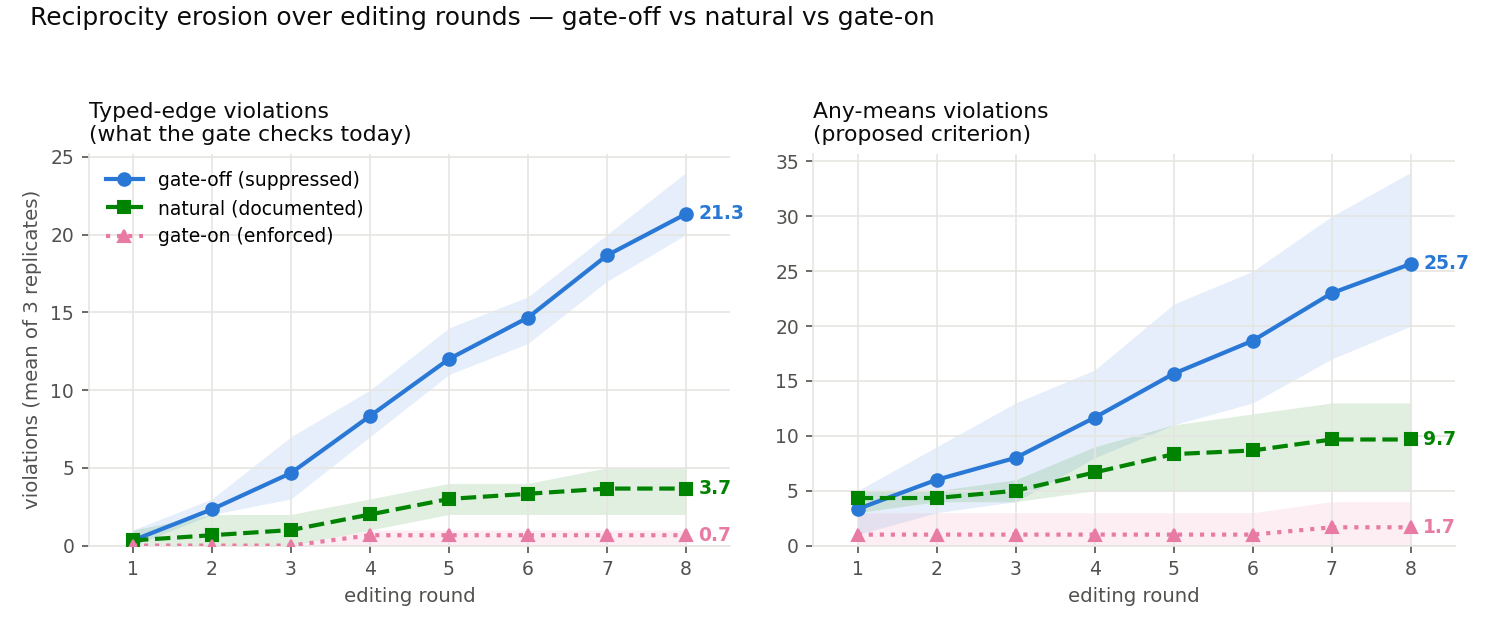
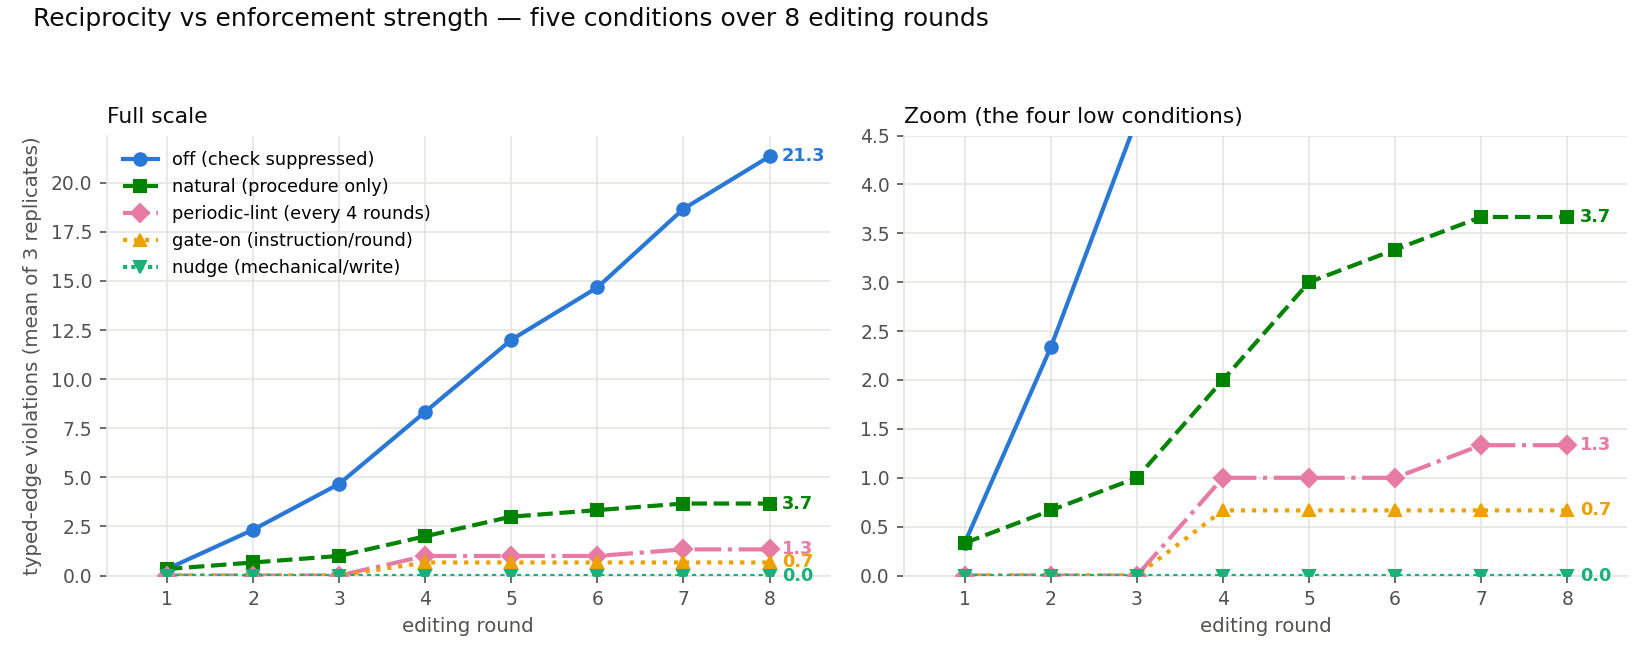
reciprocity-erosion: add periodic-lint (D) and per-write nudge (E) conditions
Two new batteries extend the erosion study to five conditions spanning
enforcement strength: off(21.3) > natural(3.7) > periodic-lint(1.3) >
gate-on(0.7) > nudge(0.0), typed-edge violations at round 8.

- D (periodic-lint): natural editing + a mechanical wiki-reciprocity.py sweep
  after rounds 4 and 8. Produces a bounded sawtooth (reset at each sweep) — the
  measured behavior of the shipped /wiki-lint wiring (PR #84).
- E (nudge): the checker runs on each round's own writes before commit — a
  faithful PostToolUse-hook proxy. Held at 0.0, matching/beating the instruction
  gate; behavioral evidence a per-write hook keeps reciprocity at zero. Caveat
  documented: exact 0.0 is partly by construction (fix-to-checker-zero measured
  by the same checker); the non-circular result is nudge vs gate-on.

Figure rebuilt to a two-panel five-condition chart (full scale + zoom). REPORT
interpretation, threats, and 'bearing on the template' updated.

diff --git a/reciprocity-erosion/plot.py b/reciprocity-erosion/plot.py
@@ -1,15 +1,15 @@
 #!/usr/bin/env python3
 """Render the reciprocity-erosion curves from the raw battery results.
 
-Reads results/battery-B-erosion.jsonl (gate-off + gate-on) and
-results/battery-C-natural.jsonl (natural), and writes
-figures/erosion-curves.png. Regenerable: re-run after new batteries.
+Reads all results/battery-*.jsonl and writes figures/erosion-curves.png:
+a two-panel typed-edge chart across five enforcement conditions
+(off / natural / periodic-lint / gate-on / nudge), mean of 3 replicates.
+Left panel is full scale (shows the suppressed case running away); right panel
+zooms to 0-4.5 to separate the four low conditions. Regenerable: re-run after
+new batteries.
 
-Two panels (typed-edge = today's gate; any-means = proposed criterion). Three
-conditions per panel, mean of 3 replicates, with a min–max ribbon across the
-replicates so the spread is visible. Colour is categorical (validated CVD-safe:
-blue/green/magenta) and is backed by line-style + marker as secondary encoding,
-so the figure survives greyscale/print and colour-vision deficiency.
+Colour is categorical (validated CVD-safe) and backed by line-style + marker as
+secondary encoding, so the figure survives greyscale/print and CVD.
 """
 import json, os, statistics as st
 from collections import defaultdict
@@ -22,55 +22,59 @@ RES = os.path.join(HERE, "results")
 OUT = os.path.join(HERE, "figures")
 os.makedirs(OUT, exist_ok=True)
 
-def cond_of(row):
-    c = row.get("cond")
-    if c:
-        return c
-    ch = row["chain"]
-    return "on" if ch.startswith("on") else "off" if ch.startswith("off") else "natural"
+# metric -> per (cond, round) list of typed-edge violation counts
+data = defaultdict(lambda: defaultdict(list))
 
-rows = []
-for fn in ("battery-B-erosion.jsonl", "battery-C-natural.jsonl"):
-    p = os.path.join(RES, fn)
-    if os.path.exists(p):
-        rows += [json.loads(l) for l in open(p)]
+def add(cond, rnd, val):
+    data[cond][rnd].append(val)
 
-def series(metric, cond):
-    g = defaultdict(list)
-    for r in rows:
-        if cond_of(r) == cond:
-            g[r["round"]].append(r[metric])
-    rounds = sorted(g)
-    mean = [st.mean(g[n]) for n in rounds]
-    lo = [min(g[n]) for n in rounds]
-    hi = [max(g[n]) for n in rounds]
-    return rounds, mean, lo, hi
+# Erosion curves only (batteries B-E). Battery A is single-ingest variance,
+# a different format/purpose, and is not part of the over-time curve.
+EROSION = ("battery-B-erosion.jsonl", "battery-C-natural.jsonl",
+           "battery-D-periodic-lint.jsonl", "battery-E-nudge.jsonl")
+for fn in EROSION:
+    path = os.path.join(RES, fn)
+    if not os.path.exists(path):
+        continue
+    for line in open(path):
+        line = line.strip()
+        if not line:
+            continue
+        r = json.loads(line)
+        # battery D (periodic-lint): {cond, step, typed}; use only round steps
+        if "step" in r:
+            if r["step"].startswith("round"):
+                add(r["cond"], int(r["step"][5:]), r["typed"])
+            continue
+        # batteries B/C/E: {chain|cond, round, viol_typed_current_gate}
+        cond = r.get("cond") or ("on" if r["chain"].startswith("on")
+                                 else "off" if r["chain"].startswith("off") else None)
+        if cond is None:
+            continue
+        add(cond, r["round"], r["viol_typed_current_gate"])
 
-# entity -> (colour, linestyle, marker, label). Order/hues are the validated
-# categorical slots; style+marker are the secondary encoding.
-STYLE = {
-    "off":     ("#2a78d6", "-",  "o", "gate-off (suppressed)"),
-    "natural": ("#008300", "--", "s", "natural (documented)"),
-    "on":      ("#e87ba4", ":",  "^", "gate-on (enforced)"),
-}
-INK, MUTED, GRID = "#0b0b0b", "#52514e", "#e6e5e2"
-PANELS = [
-    ("viol_typed_current_gate", "Typed-edge violations\n(what the gate checks today)"),
-    ("viol_body_anymeans",      "Any-means violations\n(proposed criterion)"),
+# entity -> (colour, linestyle, marker, label), ordered by enforcement strength
+STYLE = [
+    ("off",           "#2a78d6", "-",              "o", "off (check suppressed)"),
+    ("natural",       "#008300", "--",             "s", "natural (procedure only)"),
+    ("periodic-lint", "#e87ba4", "-.",             "D", "periodic-lint (every 4 rounds)"),
+    ("on",            "#eda100", ":",              "^", "gate-on (instruction/round)"),
+    ("nudge",         "#1baf7a", (0, (1, 1)),      "v", "nudge (mechanical/write)"),
 ]
+INK, MUTED, GRID = "#0b0b0b", "#52514e", "#e6e5e2"
 
-fig, axes = plt.subplots(1, 2, figsize=(10, 4.2), sharex=True)
-for ax, (metric, title) in zip(axes, PANELS):
-    for cond in ("off", "natural", "on"):
-        color, ls, mk, label = STYLE[cond]
-        x, mean, lo, hi = series(metric, cond)
-        ax.fill_between(x, lo, hi, color=color, alpha=0.12, linewidth=0)
-        ax.plot(x, mean, color=color, linestyle=ls, marker=mk, markersize=6,
+def curve(cond):
+    xs = sorted(data[cond])
+    return xs, [st.mean(data[cond][x]) for x in xs]
+
+fig, (axL, axR) = plt.subplots(1, 2, figsize=(11, 4.4))
+for ax, ymax, title in [(axL, None, "Full scale"), (axR, 4.5, "Zoom (the four low conditions)")]:
+    for cond, color, ls, mk, label in STYLE:
+        x, y = curve(cond)
+        ax.plot(x, y, color=color, linestyle=ls, marker=mk, markersize=6,
                 linewidth=2, label=label, zorder=3)
-        # direct label at the last round (relief for the low-contrast slot + no hover)
-        ax.annotate(f"{mean[-1]:.1f}", (x[-1], mean[-1]),
-                    textcoords="offset points", xytext=(6, 0),
-                    va="center", fontsize=9, color=color, fontweight="bold")
+        ax.annotate(f"{y[-1]:.1f}", (x[-1], y[-1]), textcoords="offset points",
+                    xytext=(6, 0), va="center", fontsize=8.5, color=color, fontweight="bold")
     ax.set_title(title, fontsize=10.5, color=INK, loc="left")
     ax.set_xlabel("editing round", fontsize=9.5, color=MUTED)
     ax.set_xticks(range(1, 9))
@@ -80,14 +84,14 @@ for ax, (metric, title) in zip(axes, PANELS):
         ax.spines[s].set_visible(False)
     for s in ("left", "bottom"):
         ax.spines[s].set_color(GRID)
-    ax.margins(x=0.08)
-    ax.set_ylim(bottom=0)
+    ax.margins(x=0.10)
+    ax.set_ylim(bottom=0, top=ymax)
 
-axes[0].set_ylabel("violations (mean of 3 replicates)", fontsize=9.5, color=MUTED)
-axes[0].legend(frameon=False, fontsize=9, loc="upper left")
-fig.suptitle("Reciprocity erosion over editing rounds — gate-off vs natural vs gate-on",
+axL.set_ylabel("typed-edge violations (mean of 3 replicates)", fontsize=9.5, color=MUTED)
+axL.legend(frameon=False, fontsize=8.5, loc="upper left")
+fig.suptitle("Reciprocity vs enforcement strength — five conditions over 8 editing rounds",
              fontsize=12, color=INK, x=0.02, ha="left", y=0.99)
-fig.tight_layout(rect=[0, 0, 1, 0.96])
+fig.tight_layout(rect=[0, 0, 1, 0.95])
 dest = os.path.join(OUT, "erosion-curves.png")
 fig.savefig(dest, dpi=150, facecolor="#ffffff")
 print("wrote", dest)

diff --git a/reciprocity-erosion/REPORT.md b/reciprocity-erosion/REPORT.md
@@ -21,11 +21,19 @@ and does running the verification gate prevent it?
 - **C — erosion, natural condition** (`results/battery-C-natural.jsonl`): same
   8-round design, agent follows the documented ingest procedure with the gate
   neither emphasized nor suppressed. 3 replicates.
+- **D — periodic mechanical lint** (`results/battery-D-periodic-lint.jsonl`):
+  natural editing, plus a mechanical `wiki-reciprocity.py` lint-and-fix sweep
+  after rounds 4 and 8 (models "someone runs `/wiki-lint` periodically"). Chains
+  seeded from the feature branch so the real checker is present. 3 replicates.
+- **E — per-write mechanical nudge** (`results/battery-E-nudge.jsonl`): each round
+  ingests, then runs the checker on its own writes and fixes what it reports
+  before committing (a faithful proxy for the PostToolUse hook — the mechanism
+  surfaces violations, not the agent's memory). 3 replicates.
 
-Conditions differ only in the per-round instruction: `gate-on` (run the gate,
-make every new link bidirectional), `gate-off` (do not run the gate, do not go
-back for back-references), `natural` (do what the documented procedure says, no
-more, no less).
+The five conditions form a spectrum of enforcement strength: `off` (check
+suppressed) < `natural` (procedure only) < `periodic-lint` (mechanical, every 4
+rounds) < `gate-on` (instruction, every round) < `nudge` (mechanical, every
+write).
 
 ## Result 1 — a diligent fresh ingest achieves near-perfect reciprocity
 
@@ -41,34 +49,34 @@ violations are **not per-ingest noise** — a single careful ingest gets it righ
 Structural choices did vary (pages 6–7; one run invented `dependsOn`/`feedsInto`
 edges outside the SCHEMA vocabulary), but reciprocity itself was consistently met.
 
-## Result 2 — reciprocity erodes over rounds, and the gate holds it
+## Result 2 — reciprocity erodes over rounds; enforcement strength sets the ceiling
 
 Typed-edge violations (what the gate checks today), mean of 3 replicates, by round:
 
 | condition | r1 | r2 | r3 | r4 | r5 | r6 | r7 | r8 |
 |---|---|---|---|---|---|---|---|---|
-| `gate-off` (suppressed, worst case) | 0.3 | 2.3 | 4.7 | 8.3 | 12.0 | 14.7 | 18.7 | **21.3** |
-| `natural` (documented procedure) | 0.3 | 0.7 | 1.0 | 2.0 | 3.0 | 3.3 | 3.7 | **3.7** |
-| `gate-on` (enforced) | 0.0 | 0.0 | 0.0 | 0.7 | 0.7 | 0.7 | 0.7 | **0.7** |
+| `off` (suppressed, worst case) | 0.3 | 2.3 | 4.7 | 8.3 | 12.0 | 14.7 | 18.7 | **21.3** |
+| `natural` (procedure only) | 0.3 | 0.7 | 1.0 | 2.0 | 3.0 | 3.3 | 3.7 | **3.7** |
+| `periodic-lint` (mechanical, every 4 rounds) | 0.0 | 0.0 | 0.0 | 1.0 | 1.0 | 1.0 | 1.3 | **1.3** |
+| `gate-on` (instruction, every round) | 0.0 | 0.0 | 0.0 | 0.7 | 0.7 | 0.7 | 0.7 | **0.7** |
+| `nudge` (mechanical, every write) | 0.0 | 0.0 | 0.0 | 0.0 | 0.0 | 0.0 | 0.0 | **0.0** |
 
-Any-means violations (the proposed stricter criterion) show the same ordering:
+The `periodic-lint` mechanical sweep produces a **sawtooth**: state climbs between
+sweeps and drops at each sweep (any-means reset from 4.3 at round 4 to 0.3 right
+after `lint4`, then climbs again and drops at `lint8`). It bounds erosion to a low
+ceiling rather than eliminating it.
 
-| condition | r1 | r2 | r3 | r4 | r5 | r6 | r7 | r8 |
-|---|---|---|---|---|---|---|---|---|
-| `gate-off` | 3.3 | 6.0 | 8.0 | 11.7 | 15.7 | 18.7 | 23.0 | **25.7** |
-| `natural` | 4.3 | 4.3 | 5.0 | 6.7 | 8.3 | 8.7 | 9.7 | **9.7** |
-| `gate-on` | 1.0 | 1.0 | 1.0 | 1.0 | 1.0 | 1.0 | 1.7 | **1.7** |
+Both conditions grow the wiki to about the same size (~11–12 content pages at r8),
+so the difference is not "the stricter conditions wrote less" — it is that they
+kept links bidirectional while the weaker ones let them go one-way.
 
-Both conditions grow the wiki to about the same size (12.3 / 12.0 / 11.0 content
-pages at r8), so the difference is not "gate-on wrote less" — it is that gate-on
-kept links bidirectional while the others let them go one-way.
+![Reciprocity vs enforcement strength across five conditions over 8 editing
+rounds: off runs away to 21.3 while natural (3.7), periodic-lint (1.3), gate-on
+(0.7), and nudge (0.0) stay low; the right panel zooms in to separate the four
+low conditions.](figures/erosion-curves.png)
 
-![Reciprocity erosion over editing rounds: gate-off climbs steeply, natural
-climbs slowly, gate-on stays near zero — shown for both the typed-edge and
-any-means criteria, mean of 3 replicates with min–max ribbons.](figures/erosion-curves.png)
-
-*Figure: mean of 3 replicates; shaded band is the min–max spread across
-replicates. Regenerate with `python3 plot.py`.*
+*Figure: typed-edge violations, mean of 3 replicates. Left = full scale; right =
+zoom to 0–4.5. Regenerate with `python3 plot.py`.*
 
 ## Interpretation
 
@@ -76,14 +84,29 @@ replicates. Regenerate with `python3 plot.py`.*
    documented behavior (`natural`), typed-edge violations still climb
    monotonically, 0.3 → 3.7 over 8 rounds. The `gate-off` case erodes ~6× faster
    (→ 21.3), but it is not needed to demonstrate the effect.
-2. **The gate is load-bearing.** Enforcing it holds violations near zero (→ 0.7)
-   across all 8 rounds and every replicate.
-3. **The lever is mechanical enforcement, not the choice of criterion.** typed vs
-   any-means makes little difference *when the gate runs* (both ~0–2 under
-   `gate-on`); both erode when it does not. The decision-relevant gap is
-   `natural` → `gate-on` — i.e. turning a followed-with-normal-diligence
-   *procedure* into a *check that runs every time*.
-4. **Consistency with a real wiki (cautious).** The template's own wiki, measured
+2. **Enforcement is load-bearing, and strength sets the ceiling.** The final
+   violation count is monotone in enforcement strength: off 21.3 > natural 3.7 >
+   periodic-lint 1.3 > gate-on 0.7 > nudge 0.0. More frequent, more mechanical
+   enforcement → lower steady-state erosion.
+3. **Periodic mechanical lint bounds erosion to a sawtooth; it does not eliminate
+   it.** Detection at lint-time (the shipped `/wiki-lint` wiring) lets state climb
+   between sweeps and resets it at each — a low bounded sawtooth (~1.3 ceiling),
+   far below un-swept `natural`, but not the flat line of continuous enforcement.
+4. **A mechanical per-write nudge matches or beats the instruction gate.** `nudge`
+   (mechanical check every write) held at 0.0, versus `gate-on` (instruction every
+   write) at 0.7 — the mechanism surfaces violations the agent's diligence misses.
+   This is the behavioral evidence for a PostToolUse-hook implementation.
+   *Caveat — partly by construction:* `nudge` agents fixed until the checker
+   reported zero and we measure with the same checker, so exact 0.0 is not a free
+   result; what it genuinely shows is that the fix loop **converges** (fixes do not
+   spawn violations faster than they close) and **stays at zero across 8 rounds**.
+   The non-circular contrast is `nudge` (mechanical) vs `gate-on` (instruction),
+   since the latter never runs the script.
+5. **The lever is mechanical enforcement, not the choice of criterion.** typed vs
+   any-means makes little difference *when a check runs* (both low under `gate-on`/
+   `nudge`); both erode when none does. The decision-relevant move is turning a
+   followed-with-normal-diligence *procedure* into a *check that runs*.
+6. **Consistency with a real wiki (cautious).** The template's own wiki, measured
    separately at ~33 pages, had 29 typed / 59 any-means violations — above
    `natural` at r8, consistent with more than 8 rounds of edits and heterogeneous
    real content. This is a consistency check on the mechanism, not a prediction of
@@ -108,12 +131,19 @@ replicates. Regenerate with `python3 plot.py`.*
 
 ## Bearing on the template
 
-Supports two decisions on the live template
+Supports three decisions on the live template
 (`crcresearch/llm-wiki-memory-template`):
 
-- Adopt the any-means reciprocity criterion (its maintenance cost under
-  enforcement is ~0–2 violations, i.e. near-free) **and back it with a mechanical
-  check** in `/wiki-lint` rather than leaving it a procedural checklist — because
-  the procedure alone erodes (`natural`), the check does not (`gate-on`).
-- Clear the existing debt (the 29/59 measured on the template wiki) with a
-  one-time lint sweep; it is accumulated history, not a per-commit tax.
+- **Mechanical check in `/wiki-lint`** (shipped: PR #84, `scripts/wiki-reciprocity.py`).
+  The `periodic-lint` condition confirms it bounds erosion to a low sawtooth — a
+  real improvement over the procedural checklist (`natural`), though not the flat
+  line of continuous enforcement.
+- **A per-write PostToolUse hook** running the same check. The `nudge` condition
+  (0.0, matching/beating the instruction gate's 0.7) is the behavioral evidence
+  that continuous mechanical enforcement holds reciprocity at zero. A hook PR would
+  still need a harness test for the *wiring* (does the hook fire); this battery
+  covers the *efficacy*, not the plumbing.
+- **Clear the existing debt** (the 29 typed / 59 any-means, or 64 by the shipped
+  checker's any-means union, measured on the template wiki) with a one-time lint
+  sweep, triaging genuine hubs to `hub: true`; it is accumulated history, not a
+  per-commit tax.